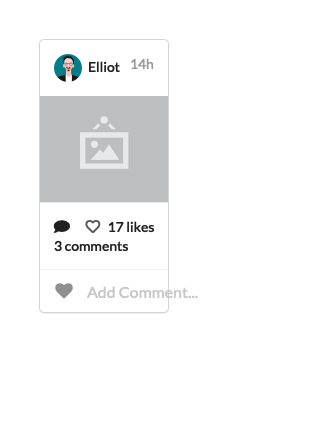
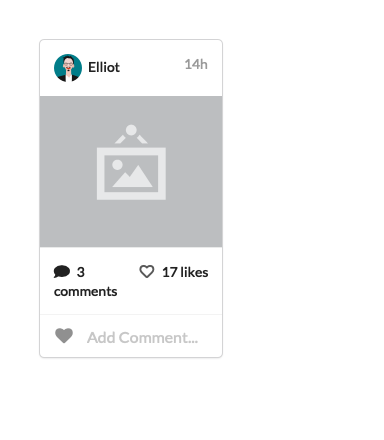
fig.width changed for UI objects

diff --git a/docs/index.html b/docs/index.html
@@ -206,8 +206,8 @@ $(document).ready(function () {
 Before
 </h2>
 <p><br></p>
-<div id="htmlwidget-fed74a8c8722796a8070" style="width:100%;height:90%;" class="uirender html-widget"></div>
-<script type="application/json" data-for="htmlwidget-fed74a8c8722796a8070">{"x":{"ui":"<div class=\"demo\">\n  <div class=\"container-fluid\">\n    <div style=\"margin-left: 20px; background: white\">\n      <div>\n        <div>\n          <a>Client's info<\/a>\n          <p><\/p>\n          <table  class = 'table shiny-table table- spacing-s' style = 'width:auto;'>\n<thead> <tr> <th style='text-align: left;'> Name <\/th> <th style='text-align: left;'> City <\/th> <th style='text-align: left;'> Revenue <\/th>  <\/tr> <\/thead> <tbody>\n  <tr> <td> John Smith <\/td> <td> Warsaw, Poland <\/td> <td> $210.50 <\/td> <\/tr>\n  <tr> <td> Lindsay More <\/td> <td> SF, United States <\/td> <td> $172.78 <\/td> <\/tr>\n   <\/tbody> <\/table>\n        <\/div>\n      <\/div>\n    <\/div>\n  <\/div>\n<\/div>"},"evals":[],"jsHooks":[]}</script>
+<div id="htmlwidget-ff39d71fa0f435d5260a" style="width:100%;height:90%;" class="uirender html-widget"></div>
+<script type="application/json" data-for="htmlwidget-ff39d71fa0f435d5260a">{"x":{"ui":"<div class=\"demo\">\n  <div class=\"container-fluid\">\n    <div style=\"margin-left: 20px; background: white\">\n      <div>\n        <div>\n          <a>Client's info<\/a>\n          <p><\/p>\n          <table  class = 'table shiny-table table- spacing-s' style = 'width:auto;'>\n<thead> <tr> <th style='text-align: left;'> Name <\/th> <th style='text-align: left;'> City <\/th> <th style='text-align: left;'> Revenue <\/th>  <\/tr> <\/thead> <tbody>\n  <tr> <td> John Smith <\/td> <td> Warsaw, Poland <\/td> <td> $210.50 <\/td> <\/tr>\n  <tr> <td> Lindsay More <\/td> <td> SF, United States <\/td> <td> $172.78 <\/td> <\/tr>\n   <\/tbody> <\/table>\n        <\/div>\n      <\/div>\n    <\/div>\n  <\/div>\n<\/div>"},"evals":[],"jsHooks":[]}</script>
 </div>
 <br>
 <div class="column">
@@ -215,8 +215,8 @@ Before
 After
 </h2>
 <p><br></p>
-<div id="htmlwidget-6350f8a5d8d6ffedd5f4" style="width:100%;height:90%;" class="uirender html-widget"></div>
-<script type="application/json" data-for="htmlwidget-6350f8a5d8d6ffedd5f4">{"x":{"ui":"<div class=\"demo\">\n  <body style=\"min-height: 611px;\">\n    <div class=\"wrapper\">\n      <div class=\"ui raised segment\" style=\"margin-left: 20px; max-width: 350px; width: 100%\">\n        <a class=\"ui green ribbon label\">Client's info<\/a>\n        <p><\/p>\n        <!-- html table generated in R 3.5.1 by xtable 1.8-3 package -->\n<!-- Fri Apr  5 13:02:08 2019 -->\n<table class = 'ui very basic collapsing celled table'>\n<tr> <th> Name <\/th> <th> City <\/th> <th> Revenue <\/th>  <\/tr>\n  <tr> <td> John Smith <\/td> <td> Warsaw, Poland <\/td> <td> $210.50 <\/td> <\/tr>\n  <tr> <td> Lindsay More <\/td> <td> SF, United States <\/td> <td> $172.78 <\/td> <\/tr>\n   <\/table>\n\n      <\/div>\n    <\/div>\n  <\/body>\n<\/div>"},"evals":[],"jsHooks":[]}</script>
+<div id="htmlwidget-a21b77185a75540968dc" style="width:100%;height:90%;" class="uirender html-widget"></div>
+<script type="application/json" data-for="htmlwidget-a21b77185a75540968dc">{"x":{"ui":"<div class=\"demo\">\n  <body style=\"min-height: 611px;\">\n    <div class=\"wrapper\">\n      <div class=\"ui raised segment\" style=\"margin-left: 20px; max-width: 350px; width: 100%\">\n        <a class=\"ui green ribbon label\">Client's info<\/a>\n        <p><\/p>\n        <!-- html table generated in R 3.5.1 by xtable 1.8-3 package -->\n<!-- Fri Apr  5 13:07:23 2019 -->\n<table class = 'ui very basic collapsing celled table'>\n<tr> <th> Name <\/th> <th> City <\/th> <th> Revenue <\/th>  <\/tr>\n  <tr> <td> John Smith <\/td> <td> Warsaw, Poland <\/td> <td> $210.50 <\/td> <\/tr>\n  <tr> <td> Lindsay More <\/td> <td> SF, United States <\/td> <td> $172.78 <\/td> <\/tr>\n   <\/table>\n\n      <\/div>\n    <\/div>\n  <\/body>\n<\/div>"},"evals":[],"jsHooks":[]}</script>
 </div>
 </div>
 </div>
@@ -227,6 +227,7 @@ After
 <a href="https://demo.appsilon.com/shiny-semantic-components/">Components live demo</a>
 </p>
 </div>
+<p><br></p>
 <div id="source-code" class="section level2 darkslide">
 <h2>Source code</h2>
 <p>This library source code can be found on <a href="http://appsilon.com">Appsilon Data Science’s</a> Github: <br> <a href="https://github.com/Appsilon/shiny.semantic" class="uri">https://github.com/Appsilon/shiny.semantic</a></p>
@@ -264,8 +265,8 @@ server &lt;- shinyServer(function(input, output) {
 
 shinyApp(ui = ui(), server = server)</code></pre>
 <p>and will render a simple button.</p>
-<div id="htmlwidget-3265470d844887ef4dac" style="width:50%;height:100px;" class="uirender html-widget"></div>
-<script type="application/json" data-for="htmlwidget-3265470d844887ef4dac">{"x":{"ui":"<div class=\"demo\">\n  <div class=\"ui button\">\n    <i class=\"user icon\"><\/i>\n    Icon button\n  <\/div>\n<\/div>"},"evals":[],"jsHooks":[]}</script>
+<div id="htmlwidget-de3f395e50a052e36e52" style="width:50%;height:100px;" class="uirender html-widget"></div>
+<script type="application/json" data-for="htmlwidget-de3f395e50a052e36e52">{"x":{"ui":"<div class=\"demo\">\n  <div class=\"ui button\">\n    <i class=\"user icon\"><\/i>\n    Icon button\n  <\/div>\n<\/div>"},"evals":[],"jsHooks":[]}</script>
 <p>For better understanding it’s good to check <a href="http://semantic-ui.com/introduction/getting-started.html">Semantic UI documentation.</a></p>
 <p><strong>Note #1</strong></p>
 <p>At the moment you have to pass page title in <code>semanticPage()</code></p>
@@ -336,8 +337,8 @@ shinyApp(ui = ui(), server = server)
 <ul>
 <li><strong>Raised segment with list</strong></li>
 </ul>
-<p><div id="htmlwidget-f6e0094a62ad272f98b9" style="width:100%;height:170px;" class="uirender html-widget"></div>
-<script type="application/json" data-for="htmlwidget-f6e0094a62ad272f98b9">{"x":{"ui":"<div class=\"demo\">\n  <div class=\"ui raised segment\">\n    <div class=\"ui relaxed divided list\">\n      <div class=\"item\">\n        <i class=\"large github middle aligned icon\"><\/i>\n        <div class=\"content\">\n          <a class=\"header\">Hello<\/a>\n          <div class=\"description\">Apples<\/div>\n        <\/div>\n      <\/div>\n      <div class=\"item\">\n        <i class=\"large github middle aligned icon\"><\/i>\n        <div class=\"content\">\n          <a class=\"header\">Hello<\/a>\n          <div class=\"description\">Pears<\/div>\n        <\/div>\n      <\/div>\n      <div class=\"item\">\n        <i class=\"large github middle aligned icon\"><\/i>\n        <div class=\"content\">\n          <a class=\"header\">Hello<\/a>\n          <div class=\"description\">Oranges<\/div>\n        <\/div>\n      <\/div>\n    <\/div>\n  <\/div>\n<\/div>"},"evals":[],"jsHooks":[]}</script> <div class="demo-code">
+<p><div id="htmlwidget-71cf51b6cfd144fdaed4" style="width:100%;height:170px;" class="uirender html-widget"></div>
+<script type="application/json" data-for="htmlwidget-71cf51b6cfd144fdaed4">{"x":{"ui":"<div class=\"demo\">\n  <div class=\"ui raised segment\">\n    <div class=\"ui relaxed divided list\">\n      <div class=\"item\">\n        <i class=\"large github middle aligned icon\"><\/i>\n        <div class=\"content\">\n          <a class=\"header\">Hello<\/a>\n          <div class=\"description\">Apples<\/div>\n        <\/div>\n      <\/div>\n      <div class=\"item\">\n        <i class=\"large github middle aligned icon\"><\/i>\n        <div class=\"content\">\n          <a class=\"header\">Hello<\/a>\n          <div class=\"description\">Pears<\/div>\n        <\/div>\n      <\/div>\n      <div class=\"item\">\n        <i class=\"large github middle aligned icon\"><\/i>\n        <div class=\"content\">\n          <a class=\"header\">Hello<\/a>\n          <div class=\"description\">Oranges<\/div>\n        <\/div>\n      <\/div>\n    <\/div>\n  <\/div>\n<\/div>"},"evals":[],"jsHooks":[]}</script> <div class="demo-code">
 <pre>
 <code class="r">div(
   class = "ui raised segment",
@@ -369,8 +370,8 @@ shinyApp(ui = ui(), server = server)
 <ul>
 <li><strong>Interactive card</strong></li>
 </ul>
-<div id="htmlwidget-7ad40d68742d80c3a00c" style="width:50%;height:400px;" class="uirender html-widget"></div>
-<script type="application/json" data-for="htmlwidget-7ad40d68742d80c3a00c">{"x":{"ui":"<div class=\"demo\">\n  <div class=\"ui card\">\n    <div class=\"content\">\n      <div class=\"right floated meta\">14h<\/div>\n      <img class=\"ui avatar image\" src=\"http://semantic-ui.com/images/avatar/large/elliot.jpg\"/>\n      Elliot\n    <\/div>\n    <div class=\"image\">\n      <img src=\"http://semantic-ui.com/images/wireframe/image.png\"/>\n    <\/div>\n    <div class=\"content\">\n      <span class=\"right floated\">\n        <i class=\"heart outline like icon\"><\/i>\n        17 likes\n      <\/span>\n      <i class=\"comment icon\"><\/i>\n      3 comments\n    <\/div>\n    <div class=\"extra content\">\n      <div class=\"ui large transparent left icon input\">\n        <i class=\"heart ouline icon\"><\/i>\n        <input type=\"text\" placeholder=\"Add Comment...\"/>\n      <\/div>\n    <\/div>\n  <\/div>\n<\/div>"},"evals":[],"jsHooks":[]}</script>
+<div id="htmlwidget-6524cf885697a6f95e78" style="width:60%;height:400px;" class="uirender html-widget"></div>
+<script type="application/json" data-for="htmlwidget-6524cf885697a6f95e78">{"x":{"ui":"<div class=\"demo\">\n  <div class=\"ui card\">\n    <div class=\"content\">\n      <div class=\"right floated meta\">14h<\/div>\n      <img class=\"ui avatar image\" src=\"http://semantic-ui.com/images/avatar/large/elliot.jpg\"/>\n      Elliot\n    <\/div>\n    <div class=\"image\">\n      <img src=\"http://semantic-ui.com/images/wireframe/image.png\"/>\n    <\/div>\n    <div class=\"content\">\n      <span class=\"right floated\">\n        <i class=\"heart outline like icon\"><\/i>\n        17 likes\n      <\/span>\n      <i class=\"comment icon\"><\/i>\n      3 comments\n    <\/div>\n    <div class=\"extra content\">\n      <div class=\"ui large transparent left icon input\">\n        <i class=\"heart ouline icon\"><\/i>\n        <input type=\"text\" placeholder=\"Add Comment...\"/>\n      <\/div>\n    <\/div>\n  <\/div>\n<\/div>"},"evals":[],"jsHooks":[]}</script>
 <div class="demo-code">
 <pre>
 <code class="r">div(

diff --git a/README.md b/README.md
@@ -36,6 +36,8 @@ After
 <a href="https://demo.appsilon.com/shiny-semantic-components/">Components live demo</a>
 </p>
 </div>
+<br>
+
 Source code
 -----------
 
